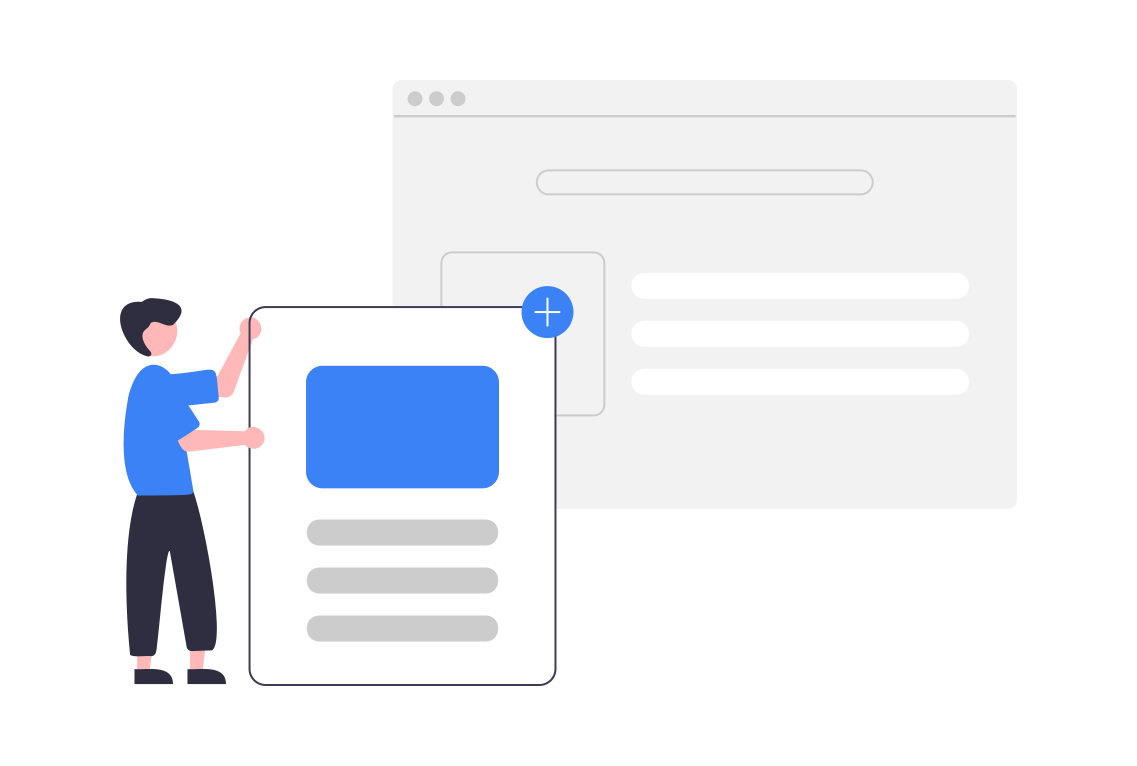
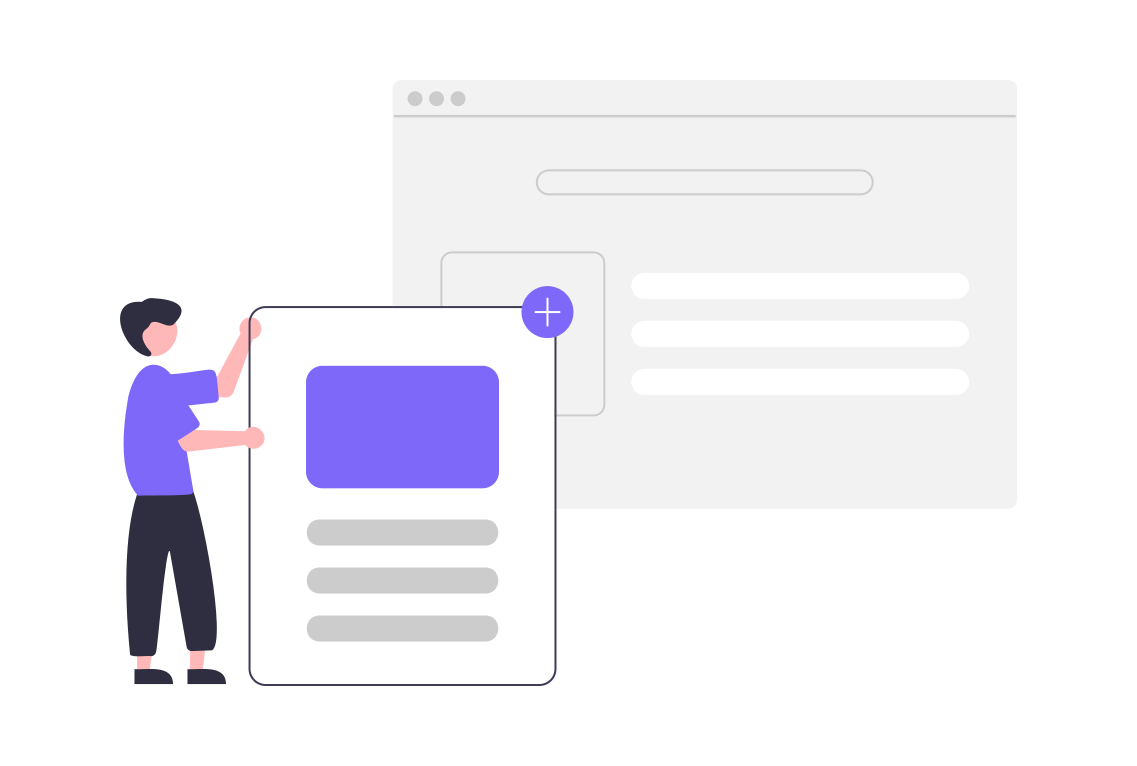
Update portfolio

Changed region(s): [[0.2463, 0.4804, 0.4617, 0.6606], [0.0923, 0.4804, 0.2155, 0.6606], [0.4617, 0.3603, 0.5233, 0.4504]]

diff --git a/project.html b/project.html
@@ -30,6 +30,15 @@
     <ul class="list-non-bullet">
         <li>
             <div class="container container-center project-container">
+                <h3>13. IsYourBirthdayPalindrome</h3>
+                <small>Sep 2022</small>
+                <p>A fun app which takes birth date as input and shows whether it is palindrome or not. If birthdate is not a palindrome then it show the nearest next palindrome date and days from which you missed it</p>
+                <a class="links link-primary" href="https://ispalindromeapp.netlify.app/">Live Project</a>
+                <a class="links link-secondary" href="https://github.com/rohitturkar/Palindrome-birthday-app">source code</a>
+            </div>
+        </li>
+        <li>
+            <div class="container container-center project-container">
                 <h3>12. funWithTriangles</h3>
                 <small>August 2022</small>
                 <p>A fun app based on triangles which can be used to find area, sum of triangles and hypotenuse of a triangle when two sides are given. and some mcqs questions on traingle.</p>
@@ -42,8 +51,8 @@
                 <h3>11. Is your Birhday Lucky</h3>
                 <small>August 2022</small>
                 <p>A app which takes input of your birthday and lucky number and tells you whether your birthday is lucky or not.</p>
-                <a class="links link-primary" href="https://is-your-birthday-lucky-app-mark.netlify.app/">Live Project</a>
-                <a class="links link-secondary" href="https://github.com/rohitturkar/Is-your-birthday-lucky">source code</a>
+                <a class="links link-primary" href="https://yourbirthdayluckyapp.netlify.app/">Live Project</a>
+                <a class="links link-secondary" href="https://github.com/rohitturkar/BirthdayLucky">source code</a>
             </div>
         </li>
         <li>

diff --git a/blog.html b/blog.html
@@ -26,9 +26,20 @@
 
     <section class="section ow">
         <div class="container container-center">
-            <h1>1. Object in javaScript</h1>
-            <p>In Simple words the object is the collection of Data and methods, and also the collection of "key:value" pairs where key is the String and also called as property name and value can be anything i.e String,number,boolean etc,</p>
+            <h1>1. Object in Javascript</h1>
+            <img src="Img/Object-img.png" alt="">
+            <p>In Simple words the object is the collection of data and methods, and also the collection of "key:value" pairs where key is the string and also called as property name and value can be anything i.e String,number,boolean etc,</p>
                 <a class="links link-secondary" href="https://rohitturkar02.hashnode.dev/what-is-object-in-javascript">Read more</a>
+                
+        </div>
+    </section>
+
+    <section class="section ">
+        <div class="container container-center">
+            <h1>2. Function Hoisting In Javascript</h1>
+            <img src="Img/function-img.png" alt="">
+            <p>When we write code In Javascript , most of the time we encounter with function and when we worked with function normally first we defined the function and after that we call or invoke the function, for example here we are declaring the function car and after we invoke it</p>
+                <a class="links link-secondary" href="https://rohitturkar02.hashnode.dev/function-hoisting-in-javascript">Read more</a>
                 
         </div>
     </section>

diff --git a/style.css b/style.css
@@ -9,8 +9,7 @@ body {
 }
 
 :root {
-    /* --primary-color: #3b82f6; */
-    --primary-color: rgb(84, 80, 171);
+    --primary-color:#7e68f9;
     --dark-grey: #6b7280;
     --off-white: #f3f4f6;
 }
@@ -114,16 +113,15 @@ body {
     margin:1.2rem 0rem;
 }
 
+.section img{
+    display:block;
+    width:40%;
+
+}
+
 .ow {
     background-color: var(--off-white);
 }
-
-.section h1{
-    text-align:center;
-}
-/* .section p{
-    text-align:center;
-} */
 
 .project-container{
     padding:2rem;

diff --git a/index.html b/index.html
@@ -19,7 +19,7 @@
     </nav>
     <!-- header -->
     <header class="hero">
-        <img class="hero-image" src="Img/hero1.png" alt="header-image">
+        <img class="hero-image" src="Img/hero.png" alt="header-image">
         <h3 class="hero-heading">Hey, I'm Rohit a web developer, I love to code and I love coffee</h3>
     </header>
 
